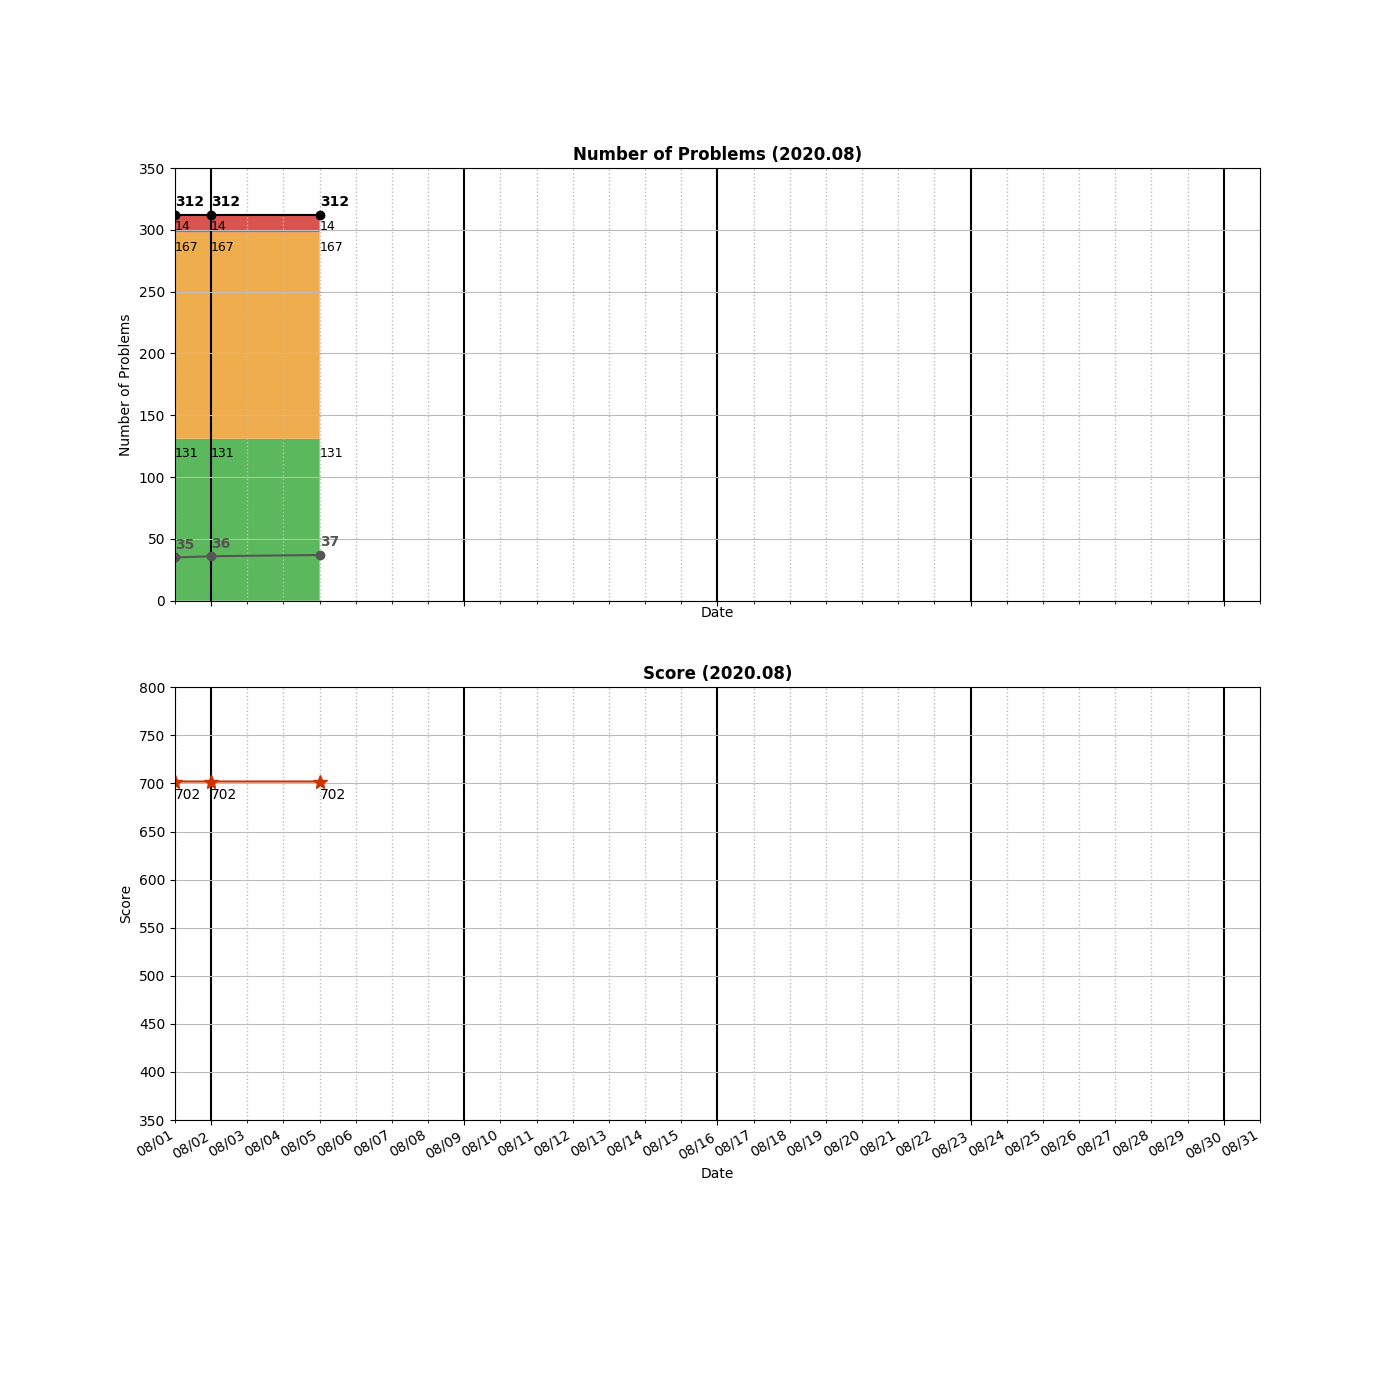
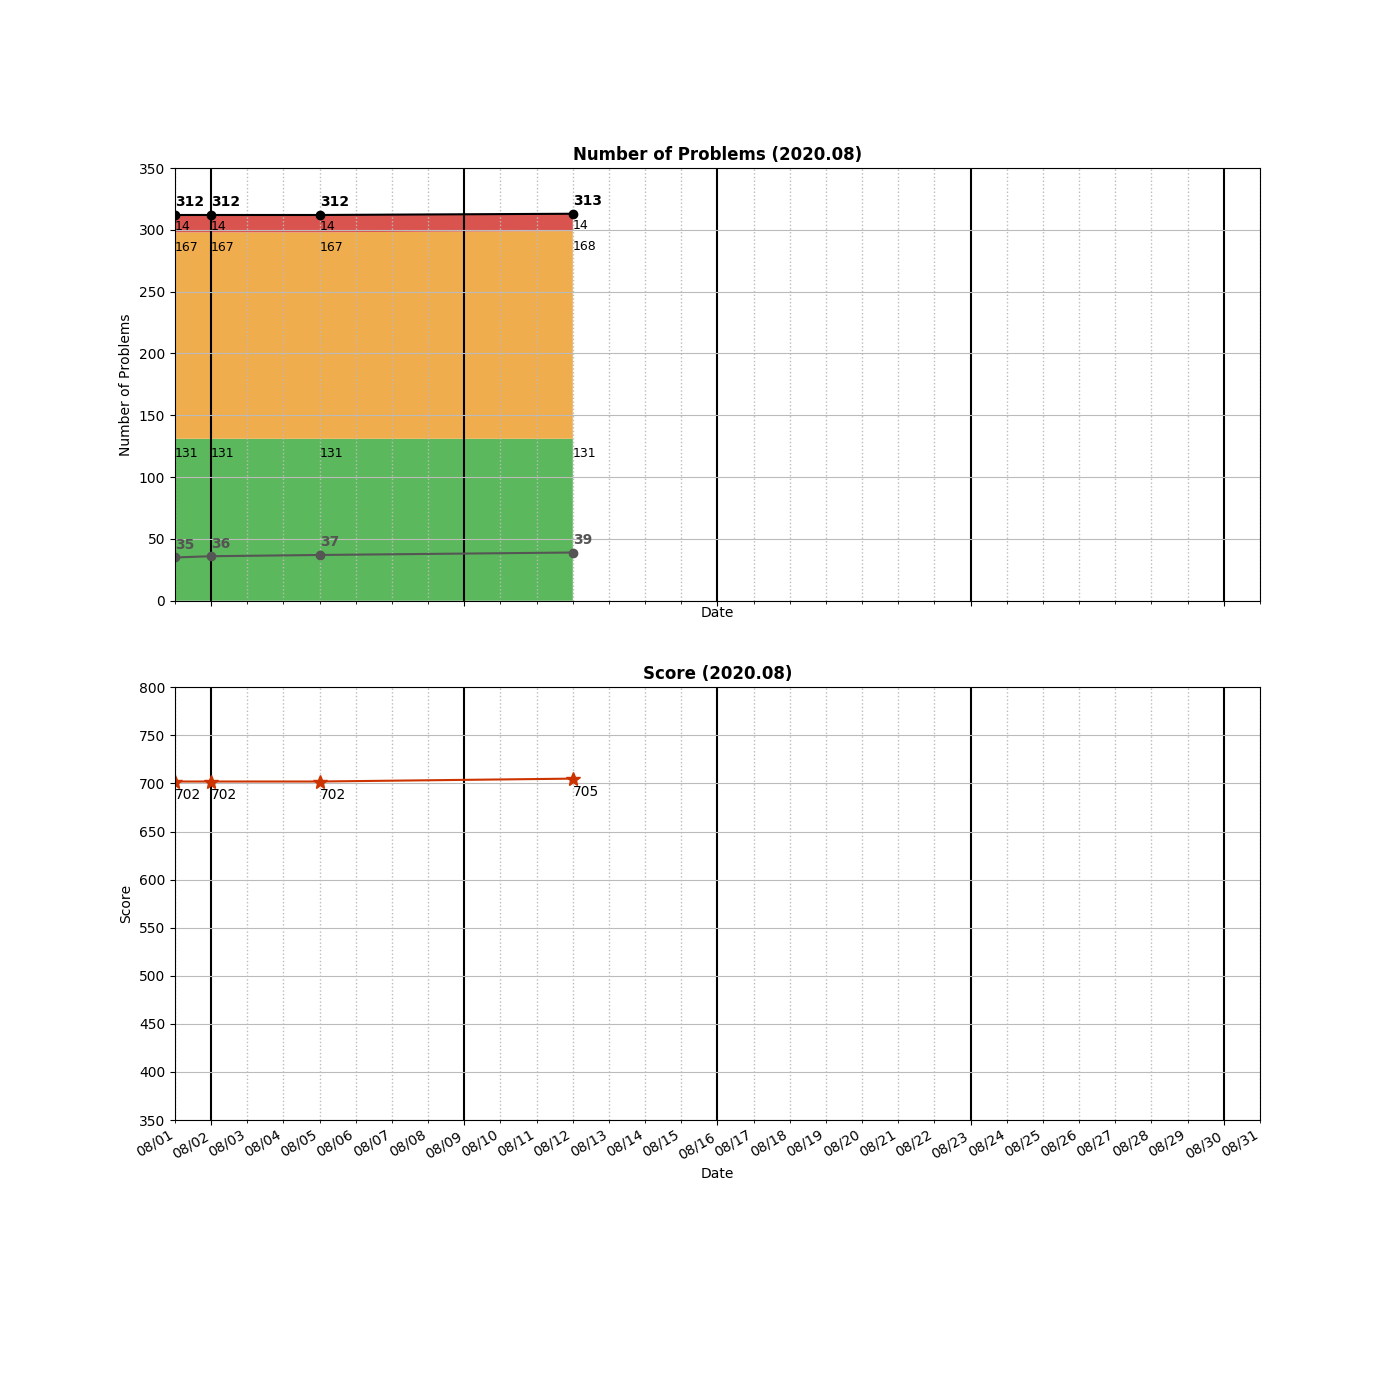
Added _0249_GroupShiftedStrings.py

Changed region(s): [[0.215, 0.1229, 0.43, 0.43], [0.3993, 0.5529, 0.43, 0.5836]]

diff --git a/algo/string/_0249_GroupShiftedStrings.py b/algo/string/_0249_GroupShiftedStrings.py
@@ -1,0 +1,34 @@
+class Solution:
+    
+    # 3 layer loop [O(NNL), 48%-67%]
+    def groupStrings(self, strings: List[str]) -> List[List[str]]:
+        if len(strings) == 0:
+            return []
+        
+        def isShiftedStrings(s1, s2):
+            if len(s1) != len(s2):
+                return False
+            diff = ord(s1[0]) - ord(s2[0]) 
+            for i in range(len(s1)):
+                if (ord(s1[i]) - ord(s2[i]) != diff and 
+                ord(s1[i]) - ord(s2[i]) + 26 != diff and  
+                ord(s1[i]) - ord(s2[i]) - 26 != diff):
+                    return False
+            return True
+                
+        resList = []
+        isNewGroup = True
+        
+        for newStr in strings:
+            for storedStrs in resList:
+                storedStr = storedStrs[0]
+                if isShiftedStrings(newStr, storedStr):
+                    storedStrs.append(newStr)
+                    isNewGroup = False
+                    break
+            if isNewGroup:
+                resList.append([newStr])
+            isNewGroup = True
+                    
+        return resList
+    

diff --git a/README.md b/README.md
@@ -254,6 +254,7 @@ algo
 │   ├── _0067_AddBinary.py
 │   ├── _0125_ValidPalindrome.py
 │   ├── _0171_ExcelSheetColumnNumber.py
+│   ├── _0249_GroupShiftedStrings.py
 │   ├── _0290_WordPattern.py
 │   ├── _0299_BullsAndCows.py
 │   ├── _0383_RansomNote.py
@@ -339,7 +340,7 @@ algo
     ├── _0127_WordLadder_TLE.py
     └── _0127_WordLadder_wrong.py
 
-28 directories, 310 files
+28 directories, 311 files
 
 =====================================
 ============= Local Repo ============
@@ -490,6 +491,7 @@ _0238_ProductOfArrayExceptSelf.py
 _0239_SlidingWindowMaximum.py
 _0240_SearchA2DMatrix2.py
 _0242_ValidAnagram.py
+_0249_GroupShiftedStrings.py
 _0252_MeetingRooms.py
 _0253_MeetingRooms2.py
 _0256_PaintHouse.py
@@ -654,7 +656,7 @@ _1391_CheckIfThereIsAValidPathInAGrid.py
 _1427_PerformStringShifts.py
 _1490_CloneN-aryTree.py
 =====================================
-Num of Python Practice:  309
+Num of Python Practice:  310
 
 
 =====================================
@@ -805,6 +807,7 @@ Num of Python Practice:  309
  0239 Sliding Window Maximum
  0240 Search a 2D Matrix II
  0242 Valid Anagram
+ 0249 Group Shifted Strings
  0252 Meeting Rooms
  0253 Meeting Rooms II
  0256 Paint House
@@ -973,11 +976,11 @@ Num of Python Practice:  309
  1427 Perform String Shifts
  1490 Clone N-ary Tree
 =====================================
-Solved / Total (Easy)  :  131 /  426
-Solved / Total (Medium):  167 /  787
-Solved / Total (Hard)  :   14 /  324
-Solved / Total (All)   :  312 / 1537
-Total Score            :  702
+Solved / Total (Easy)  :  131 /  429
+Solved / Total (Medium):  168 /  792
+Solved / Total (Hard)  :   14 /  326
+Solved / Total (All)   :  313 / 1547
+Total Score            :  705
 =====================================
 
 ```
